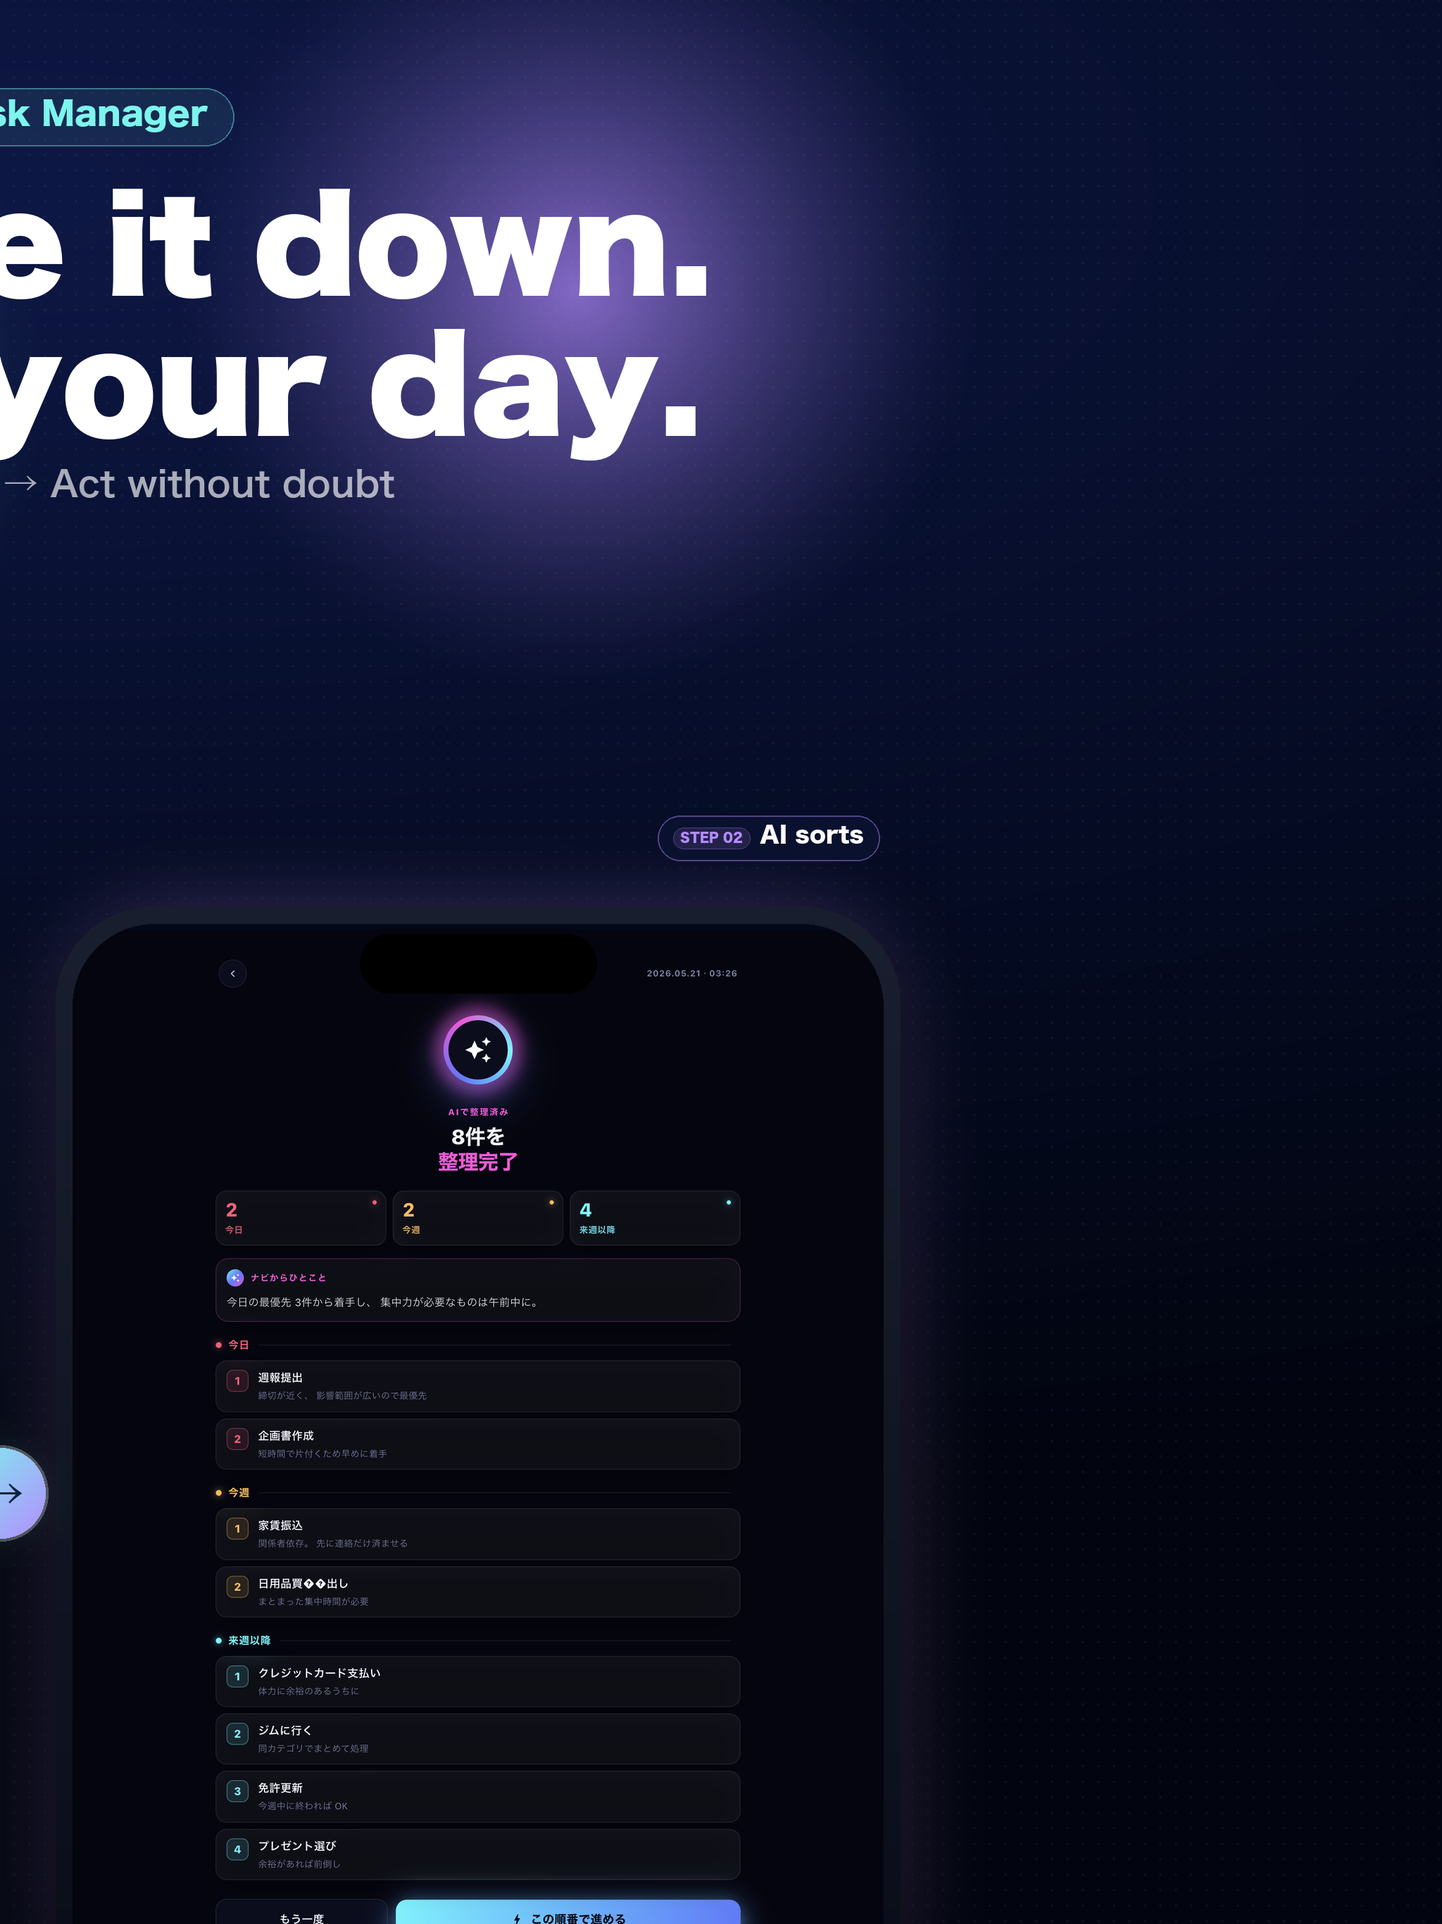
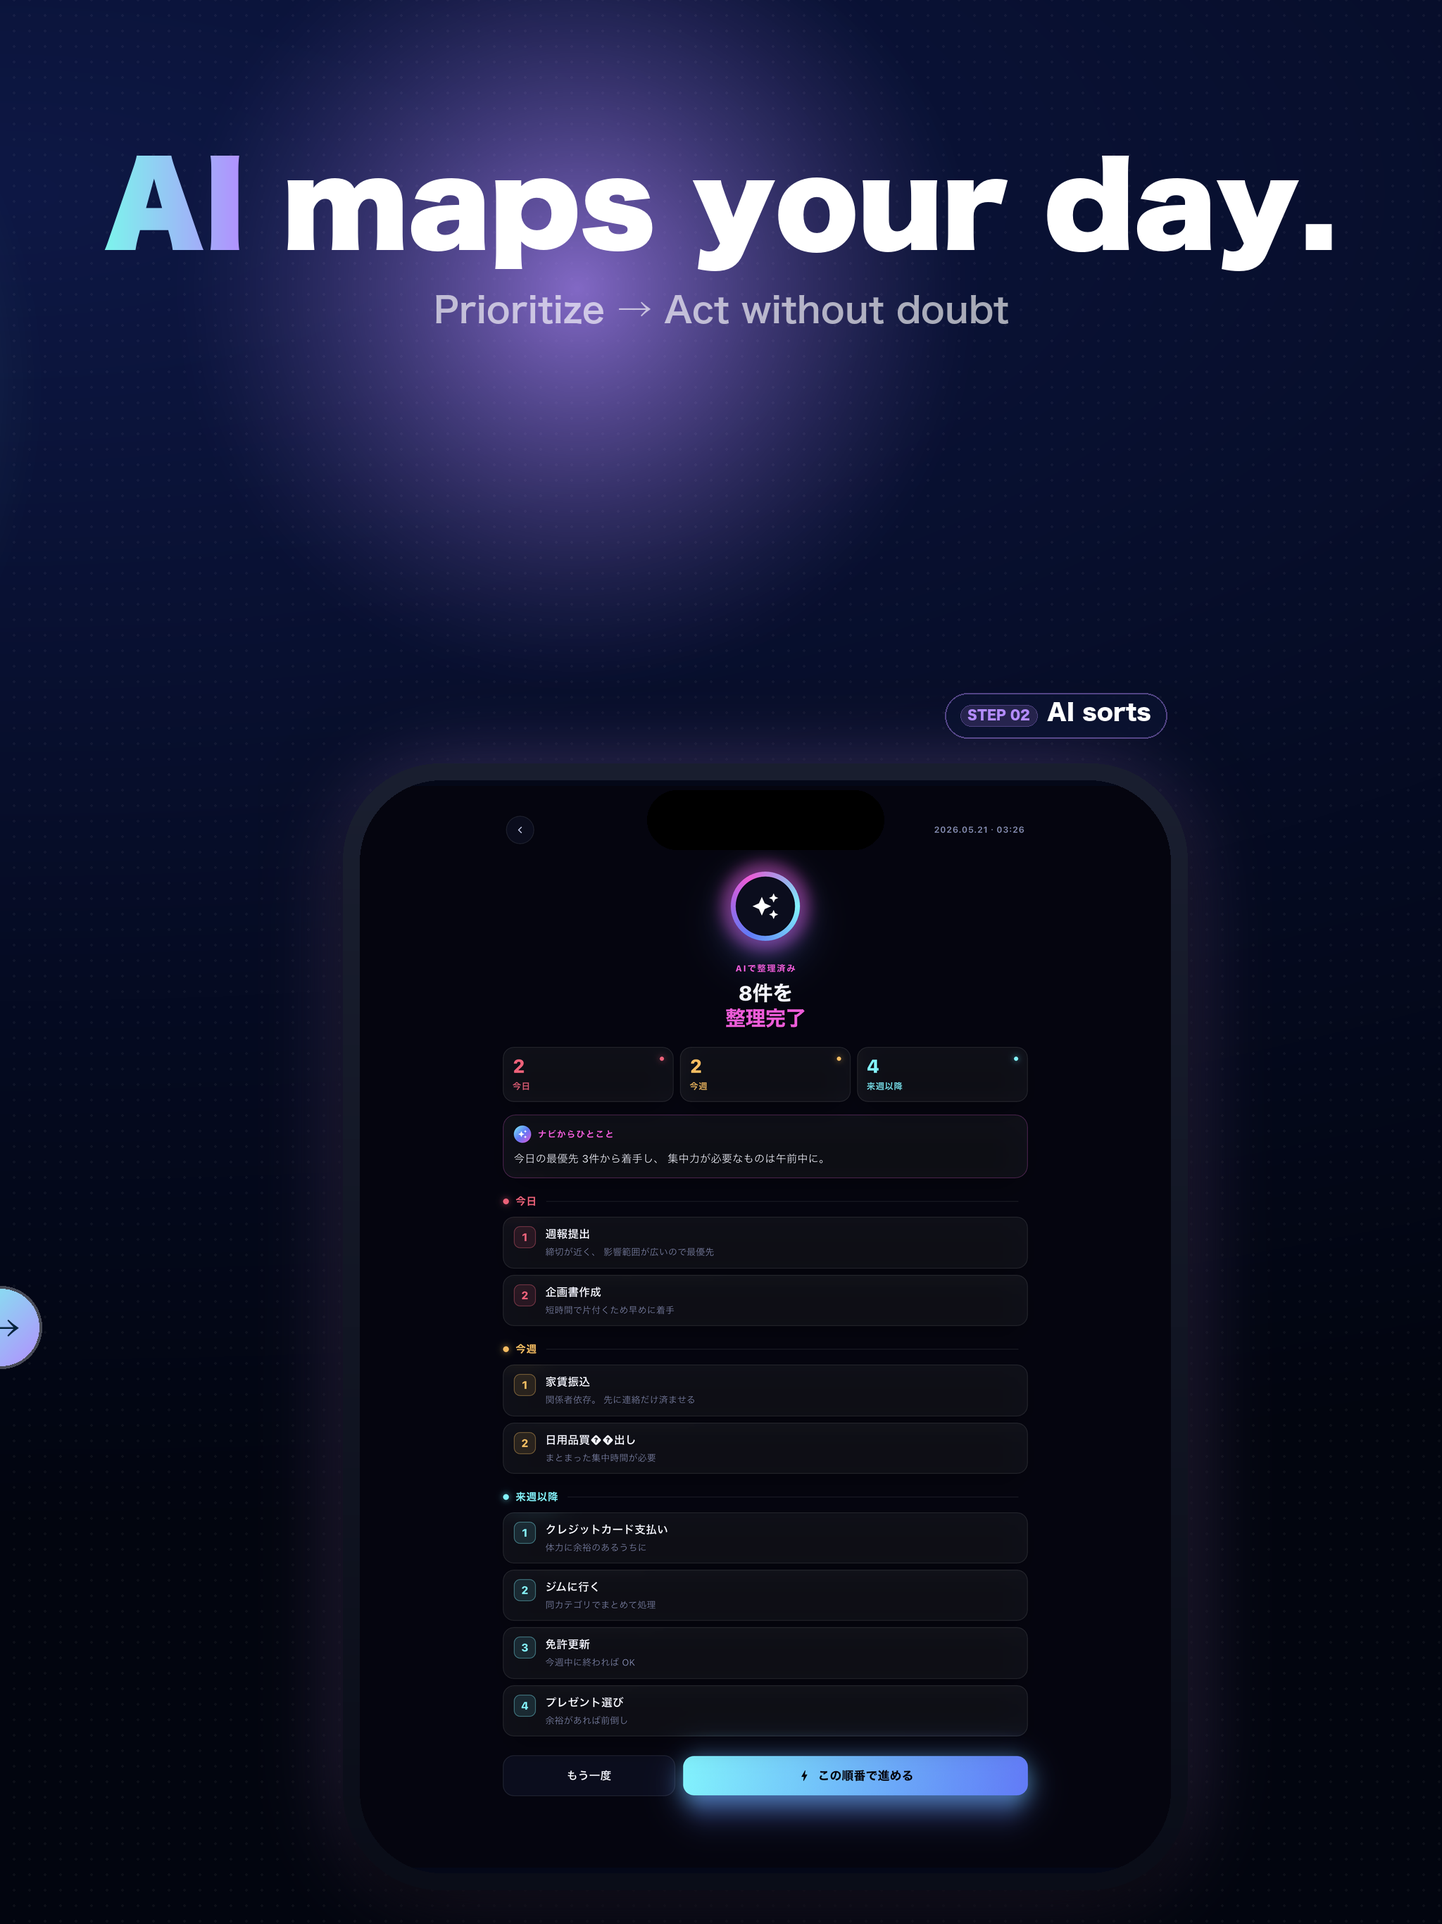
fix(aso): Hero 連結を左右独立生成に変更 (テキスト境界跨ぎを構造的に解消)
## 問題
連結フレーム (2580x2796) を中央で 2 分割していたため、 1 枚ずつ見ると
タイトル「登録するだけ。AIが今日の道筋を作る。」が境界を跨いで切れていた。

## 修正
- 共有背景 (gradient + dots + glow) だけは 2580x2796 で生成して左右に crop
- 左右の前景 (タイトル/サブ/端末/STEP バッジ/矢印) は各フレーム内で
  完全に独立して描画 → 構造的に境界を跨がない
- 左フレーム: アイブロウ「AI × タスク管理」 + 「登録するだけ。」 + 「書き出す → AIが整理」 + STEP 01 + ホーム画面
- 右フレーム: 「AIが道筋を作る。」 (AI=グラデ) + 「優先順位を提案 → 迷わず動ける」 + STEP 02 + AI 結果画面
- 矢印は左フレーム右端と右フレーム左端に半円で float

## スクリプト設計改善
- SafeArea (left/right/top/bottom margin) class を導入、 描画可能領域を明示
- fit_text_in_width: 与えた max_width に収まる font/size を自動算出
  (initial_size から 2px ずつ縮小、 min_size で止める)
- validate_frame: 生成後にサイズを assert チェック
- _build_hero_shared_background: 連結用 2x 背景を 1 関数で生成
- render_hero_left / render_hero_right: 各フレームを独立 render
- _draw_arrow_half: 連結境界に半円矢印 (side='left'/'right')

## i18n
- hero.sub_left / sub_right を ja + en に追加
  - 左: 「書き出す → AIが整理」 / "Capture → AI sorts"
  - 右: 「優先順位を提案 → 迷わず動ける」 / "Prioritize → Act without doubt"

## 検証済
- ja/iPhone 6.7+6.5+iPad、 en/iPhone 6.7+6.5+iPad 全 24 枚 + iap_review 3 枚 = 27 ファイル
- validate_frame で size assert 通過
- flutter analyze: error 0

diff --git a/tool/overlay_screenshots_v2.py b/tool/overlay_screenshots_v2.py
@@ -53,6 +53,50 @@ IP_W, IP_H = 1290, 2796
 PD_W, PD_H = 2048, 2732
 
 
+@dataclass
+class SafeArea:
+    """各フレームの描画可能領域 (これを跨いだ描画は禁止)。
+    Hero 連結等で「テキストが境界を跨ぐ」 のを防ぐため、 全フレームで
+    SafeArea 内に収まるように自動 fit する。
+    """
+    left: int = 80
+    right: int = 80
+    top: int = 120
+    bottom: int = 100
+
+    def text_width(self, frame_w: int) -> int:
+        return frame_w - self.left - self.right
+
+
+def fit_text_in_width(
+    text: str,
+    font_path: str,
+    max_width: int,
+    initial_size: int,
+    *,
+    min_size: int = 60,
+) -> tuple[ImageFont.FreeTypeFont, int]:
+    """テキストが max_width に収まる font + size を返す。
+    initial_size から 2px ずつ縮小、 min_size まで。"""
+    size = initial_size
+    font = ImageFont.truetype(font_path, size)
+    while size > min_size:
+        bbox = font.getbbox(text)
+        if (bbox[2] - bbox[0]) <= max_width:
+            return font, size
+        size -= 2
+        font = ImageFont.truetype(font_path, size)
+    return font, size
+
+
+def validate_frame(img: Image.Image, expected_w: int, expected_h: int,
+                   name: str = "frame") -> None:
+    """生成後の最小バリデーション。 NG なら AssertionError。"""
+    w, h = img.size
+    assert w == expected_w, f"{name}: width {w} != {expected_w}"
+    assert h == expected_h, f"{name}: height {h} != {expected_h}"
+
+
 # ============================================================
 # Utility: color
 # ============================================================
@@ -490,8 +534,10 @@ TEXTS_JA = {
         "title_l1": "登録するだけ。",
         "title_l2_pre": "",
         "title_l2_accent": "AI",
-        "title_l2_post": "が今日の道筋を作る。",
+        "title_l2_post": "が道筋を作る。",
         "sub": "書き出す → 優先順位を提案 → 迷わず動ける",
+        "sub_left": "書き出す → AIが整理",
+        "sub_right": "優先順位を提案 → 迷わず動ける",
         "step1_text": "STEP 01",
         "step1_caption": "書き出す",
         "step2_text": "STEP 02",
@@ -544,6 +590,8 @@ TEXTS_EN = {
         "title_l2_accent": "AI",
         "title_l2_post": " maps your day.",
         "sub": "Capture → Prioritize → Act without doubt",
+        "sub_left": "Capture → AI sorts",
+        "sub_right": "Prioritize → Act without doubt",
         "step1_text": "STEP 01",
         "step1_caption": "Capture",
         "step2_text": "STEP 02",
@@ -675,105 +723,196 @@ def render_single_frame(
     return canvas
 
 
-def render_hero_2up(
-    texts: dict, raw_dir: Path,
-    *, frame_w_each: int, frame_h: int,
-    phone_w: int, phone_h: int,
-    title_size: int,
-    eyebrow_font_size: int,
-    sub_font_size: int,
-) -> tuple[Image.Image, Image.Image]:
-    """連結ヒーロー: 全幅で描画して中央分割して 2 枚返す。"""
-    full_w = frame_w_each * 2
-
+def _build_hero_shared_background(
+    full_w: int, frame_h: int,
+) -> Image.Image:
+    """連結ヒーロー用の共有背景 (gradient + dots + 2 つの glow)。
+    左右独立フレーム生成時に半分ずつ crop して使う。
+    """
     canvas = draw_radial_bg(
         full_w, frame_h, center_pct=(0.5, 0.1), radius_pct=(1.20, 0.70),
         stops=[(0.0, (14, 24, 69)), (0.6, (5, 11, 34)), (1.0, (2, 5, 15))],
     )
     draw_dots(canvas, (255, 255, 255, 10))
-    draw_glow(canvas, (0.35, 0.2), int(1300 * (frame_w_each / 1290)),
+    draw_glow(canvas, (0.35, 0.2), int(1300 * (full_w / 2580)),
               (125, 245, 237, 200))
-    draw_glow(canvas, (0.70, 0.15), int(1100 * (frame_w_each / 1290)),
+    draw_glow(canvas, (0.70, 0.15), int(1100 * (full_w / 2580)),
               (180, 140, 255, 180))
+    return canvas
 
-    # ヘッドライン (中央)
-    cx = full_w // 2
-    headline_top = int(170 * (frame_h / 2796))
+
+def render_hero_left(
+    texts: dict, raw_dir: Path,
+    *, frame_w: int, frame_h: int,
+    phone_w: int, phone_h: int,
+    title_size: int,
+    eyebrow_font_size: int,
+    sub_font_size: int,
+    shared_bg_left: Image.Image,
+) -> Image.Image:
+    """連結ヒーロー左半分 (1290x2796)。 テキスト/端末は frame 内で完結。"""
     h = texts["hero"]
-    draw_eyebrow_badge(canvas, h["eyebrow_text"], cx, headline_top,
+    safe = SafeArea()
+    canvas = shared_bg_left.copy()
+    cx = frame_w // 2
+
+    # アイブロウバッジ
+    eyebrow_y = safe.top + 20
+    draw_eyebrow_badge(canvas, h["eyebrow_text"], cx, eyebrow_y,
                        (125, 245, 237), icon=h["eyebrow_icon"],
                        font_size=eyebrow_font_size)
 
-    # タイトル 2 行
-    title_y = headline_top + 90
-    font = _font(FONT_HEAVY, title_size)
-    # 1行目: "登録するだけ。" (white)
-    l1 = h["title_l1"]
-    w1, _ = measure(l1, font)
+    # タイトル: 「登録するだけ。」 (フレーム内で fit)
+    title_y = eyebrow_y + 90
+    text_max = safe.text_width(frame_w)
+    font, _ = fit_text_in_width(
+        h["title_l1"], FONT_HEAVY, text_max, title_size, min_size=80)
+    w1, h1 = measure(h["title_l1"], font)
     d = ImageDraw.Draw(canvas)
-    d.text((cx - w1 // 2, title_y), l1, font=font, fill=(255, 255, 255, 255))
+    d.text((cx - w1 // 2, title_y), h["title_l1"],
+           font=font, fill=(255, 255, 255, 255))
 
-    # 2行目: pre + AI (gradient) + post
+    # サブコピー (left 専用)
+    sub_y = title_y + int(font.size * 1.18) + 20
+    sub_font, _ = fit_text_in_width(
+        h["sub_left"], FONT_SEMI, text_max, sub_font_size, min_size=22)
+    draw_sub(canvas, h["sub_left"], cx, sub_y,
+             color=(255, 255, 255, 165), size=sub_font.size)
+
+    # 端末 (ホーム画面)
+    prefix = "ipad_" if raw_dir.name.startswith("ipad") else "raw_"
+    raw1 = raw_dir / f"{prefix}01_home.png"
+    py = frame_h - phone_h + int(-50 * (frame_h / 2796))
+    px = cx - phone_w // 2 - int(40 * (frame_w / 1290))  # 中央より少し左
+    if raw1.exists():
+        f1, _ = make_phone_frame(raw1, phone_w, phone_h,
+                                  glow_color=(125, 245, 237))
+        paste_phone_with_glow(canvas, f1, px, py, glow_color=(125, 245, 237))
+
+    # ステップバッジ (端末上左寄せ)
+    _draw_step_badge(canvas, h["step1_text"], h["step1_caption"],
+                     px + 30, py - 100, (125, 245, 237))
+
+    # 矢印の左半分 (右端のフレーム境界ぴったりに半円)
+    cn_size = int(120 * (frame_h / 2796))
+    _draw_arrow_half(canvas, frame_w, py + int(phone_h * 0.50),
+                     cn_size, side="left",
+                     grad=((125, 245, 237), (180, 140, 255)))
+
+    validate_frame(canvas, frame_w, frame_h, name="hero_left")
+    return canvas
+
+
+def render_hero_right(
+    texts: dict, raw_dir: Path,
+    *, frame_w: int, frame_h: int,
+    phone_w: int, phone_h: int,
+    title_size: int,
+    eyebrow_font_size: int,
+    sub_font_size: int,
+    shared_bg_right: Image.Image,
+) -> Image.Image:
+    """連結ヒーロー右半分 (1290x2796)。 テキスト/端末は frame 内で完結。"""
+    h = texts["hero"]
+    safe = SafeArea()
+    canvas = shared_bg_right.copy()
+    cx = frame_w // 2
+
+    # タイトル: pre + AI accent + post を frame 内で fit
+    headline_y = safe.top + 90  # 左フレームの eyebrow 高さに揃える
     l2_pre = h["title_l2_pre"]
     l2_acc = h["title_l2_accent"]
     l2_post = h["title_l2_post"]
-    line_h = int(title_size * 1.12)
+    full_text = f"{l2_pre}{l2_acc}{l2_post}"
+    text_max = safe.text_width(frame_w)
+    font, _ = fit_text_in_width(
+        full_text, FONT_HEAVY, text_max, title_size, min_size=80)
     w_pre, _ = measure(l2_pre, font) if l2_pre else (0, 0)
     w_acc, _ = measure(l2_acc, font)
     w_post, _ = measure(l2_post, font)
     total = w_pre + w_acc + w_post
     x = cx - total // 2
-    y2 = title_y + line_h
+    title_y = headline_y
+    d = ImageDraw.Draw(canvas)
     if l2_pre:
-        d.text((x, y2), l2_pre, font=font, fill=(255, 255, 255, 255))
+        d.text((x, title_y), l2_pre, font=font, fill=(255, 255, 255, 255))
         x += w_pre
-    _draw_gradient_text(canvas, l2_acc, font, (x, y2),
+    _draw_gradient_text(canvas, l2_acc, font, (x, title_y),
                         ((125, 245, 237), (180, 140, 255)))
     x += w_acc
-    d.text((x, y2), l2_post, font=font, fill=(255, 255, 255, 255))
+    d.text((x, title_y), l2_post, font=font, fill=(255, 255, 255, 255))
 
-    # サブテキスト
-    sub_y = y2 + line_h - int(title_size * 0.1) + 24
-    draw_sub(canvas, h["sub"], cx, sub_y, color=(255, 255, 255, 165),
-             size=sub_font_size)
+    # サブコピー (right 専用)
+    sub_y = title_y + int(font.size * 1.18) + 20
+    sub_font, _ = fit_text_in_width(
+        h["sub_right"], FONT_SEMI, text_max, sub_font_size, min_size=22)
+    draw_sub(canvas, h["sub_right"], cx, sub_y,
+             color=(255, 255, 255, 165), size=sub_font.size)
 
-    # 端末 2 台 + 中央 connector
-    # 配置: 中央付近に近接、 phone_w + gap*2 + phone_w が full_w に収まるよう
-    gap = int(100 * (frame_w_each / 1290))
-    total_phone_w = phone_w * 2 + gap
-    px_left = (full_w - total_phone_w) // 2
-    px_right = px_left + phone_w + gap
-    # 端末 bottom を少し画面外に飛び出す ( -160 of JSX)
-    py = frame_h - phone_h - int(-160 * (frame_h / 2796))
-
+    # 端末 (AI 結果画面)
     prefix = "ipad_" if raw_dir.name.startswith("ipad") else "raw_"
-    raw1 = raw_dir / f"{prefix}01_home.png"
     raw2 = raw_dir / f"{prefix}02_ai_result.png"
-    if raw1.exists():
-        f1, _ = make_phone_frame(raw1, phone_w, phone_h, glow_color=(125, 245, 237))
-        paste_phone_with_glow(canvas, f1, px_left, py, glow_color=(125, 245, 237))
+    py = frame_h - phone_h + int(-50 * (frame_h / 2796))
+    px = cx - phone_w // 2 + int(40 * (frame_w / 1290))  # 中央より少し右
     if raw2.exists():
-        f2, _ = make_phone_frame(raw2, phone_w, phone_h, glow_color=(180, 140, 255))
-        paste_phone_with_glow(canvas, f2, px_right, py, glow_color=(180, 140, 255))
+        f2, _ = make_phone_frame(raw2, phone_w, phone_h,
+                                  glow_color=(180, 140, 255))
+        paste_phone_with_glow(canvas, f2, px, py, glow_color=(180, 140, 255))
 
-    # ステップバッジ (端末上に float)
-    _draw_step_badge(canvas, h["step1_text"], h["step1_caption"],
-                     px_left + 30, py - 130, (125, 245, 237))
+    # ステップバッジ (端末上右寄せ)
     _draw_step_badge(canvas, h["step2_text"], h["step2_caption"],
-                     px_right + phone_w - 30, py - 130, (180, 140, 255),
+                     px + phone_w - 30, py - 100, (180, 140, 255),
                      align="right")
 
-    # 中央 connector (140px の円, gradient + 矢印)
-    cn_size = int(140 * (frame_h / 2796))
-    cn_cx = full_w // 2
-    cn_cy = py + int(phone_h * 0.52)
-    _draw_connector(canvas, cn_cx, cn_cy, cn_size,
-                    ((125, 245, 237), (180, 140, 255)))
+    # 矢印の右半分 (左端のフレーム境界ぴったりに半円)
+    cn_size = int(120 * (frame_h / 2796))
+    _draw_arrow_half(canvas, 0, py + int(phone_h * 0.50),
+                     cn_size, side="right",
+                     grad=((125, 245, 237), (180, 140, 255)))
 
-    # 中央で分割して 2 枚
-    left = canvas.crop((0, 0, frame_w_each, frame_h))
-    right = canvas.crop((frame_w_each, 0, full_w, frame_h))
-    return left, right
+    validate_frame(canvas, frame_w, frame_h, name="hero_right")
+    return canvas
+
+
+def _draw_arrow_half(
+    canvas: Image.Image, edge_x: int, cy: int, size: int,
+    *, side: str,
+    grad: tuple[tuple[int, int, int], tuple[int, int, int]],
+):
+    """連結ヒーロー境界に半円の矢印 connector を描画。
+    side='left' なら canvas の右端 (edge_x=frame_w) に左半分の半円。
+    side='right' なら canvas の左端 (edge_x=0) に右半分の半円。
+    左右を並べると 1 つの円 + 矢印になる。
+    """
+    full = size
+    # 円全体を別レイヤーに描き、 必要な半分だけ canvas に貼る
+    layer = Image.new("RGBA", (full + 40, full + 40), (0, 0, 0, 0))
+    arr = np.zeros((full, full, 4), dtype=np.uint8)
+    yy, xx = np.mgrid[0:full, 0:full]
+    inside = ((xx - full / 2) ** 2 + (yy - full / 2) ** 2) <= (full / 2) ** 2
+    t = ((xx + yy) / (2 * full)).clip(0, 1)
+    arr[..., 0] = (grad[0][0] * (1 - t) + grad[1][0] * t).astype(np.uint8)
+    arr[..., 1] = (grad[0][1] * (1 - t) + grad[1][1] * t).astype(np.uint8)
+    arr[..., 2] = (grad[0][2] * (1 - t) + grad[1][2] * t).astype(np.uint8)
+    arr[..., 3] = (inside * 255).astype(np.uint8)
+    circle = Image.fromarray(arr, "RGBA")
+    layer.alpha_composite(circle, (20, 20))
+    ld = ImageDraw.Draw(layer)
+    ld.ellipse([20, 20, 20 + full, 20 + full],
+               outline=(255, 255, 255, 70), width=4)
+    # 矢印テキストは円中央に
+    font = _font(FONT_HEAVY, int(full * 0.5))
+    aw, ah = measure("→", font)
+    ld.text((20 + full // 2 - aw // 2,
+             20 + full // 2 - ah // 2 - int(full * 0.1)),
+            "→", font=font, fill=(6, 36, 61, 255))
+
+    # 円中心を canvas の境界に重ねるオフセットで貼る
+    # paste 左上 = (edge_x - layer.width // 2, cy - layer.height // 2)
+    canvas.alpha_composite(
+        layer,
+        (edge_x - layer.width // 2, cy - layer.height // 2),
+    )
 
 
 def _draw_step_badge(
@@ -898,18 +1037,35 @@ def render_all_for_device(
 
     print(f"\n=== {lang} / {device} ({frame_w}x{frame_h}) ===")
 
-    # Hero 2-up
-    left, right = render_hero_2up(
+    # 連結ヒーロー: 共有背景を 2 倍幅で生成 → 左右に crop → 各フレーム独立 render
+    # → テキストが境界を跨ぐ問題を構造的に解消。
+    full_w = frame_w * 2
+    shared_bg = _build_hero_shared_background(full_w, frame_h)
+    bg_left = shared_bg.crop((0, 0, frame_w, frame_h))
+    bg_right = shared_bg.crop((frame_w, 0, full_w, frame_h))
+    # iPhone は title 120-130px、 iPad は少し大きめ
+    hero_title_size = 120 if device == "iphone" else 156
+    left = render_hero_left(
         texts, raw_dir_use,
-        frame_w_each=frame_w, frame_h=frame_h,
+        frame_w=frame_w, frame_h=frame_h,
         phone_w=hero_phone_w, phone_h=hero_phone_h,
-        title_size=title_size_hero,
+        title_size=hero_title_size,
         eyebrow_font_size=eyebrow_font,
         sub_font_size=sub_font,
+        shared_bg_left=bg_left,
+    )
+    right = render_hero_right(
+        texts, raw_dir_use,
+        frame_w=frame_w, frame_h=frame_h,
+        phone_w=hero_phone_w, phone_h=hero_phone_h,
+        title_size=hero_title_size,
+        eyebrow_font_size=eyebrow_font,
+        sub_font_size=sub_font,
+        shared_bg_right=bg_right,
     )
     left.convert("RGB").save(out_dir / "01_hero_left.png", "PNG", optimize=True)
     right.convert("RGB").save(out_dir / "02_hero_right.png", "PNG", optimize=True)
-    print(f"  01_hero_left.png / 02_hero_right.png")
+    print("  01_hero_left.png / 02_hero_right.png")
 
     # Single frames
     configs = build_single_configs(texts, raw_dir_use)
